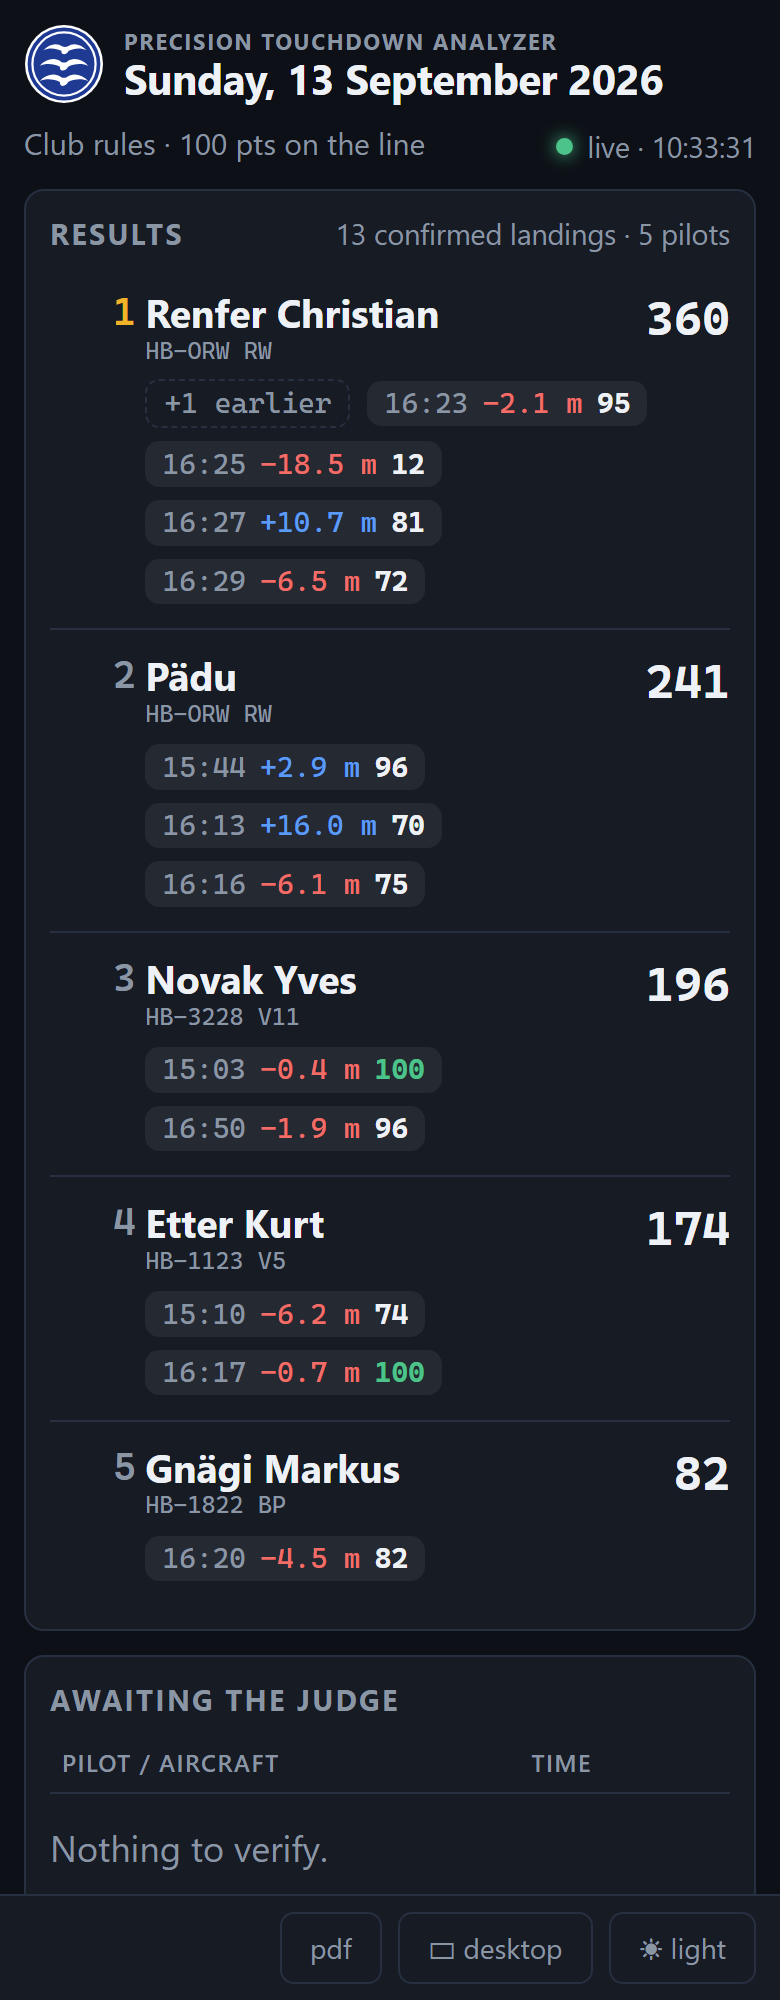
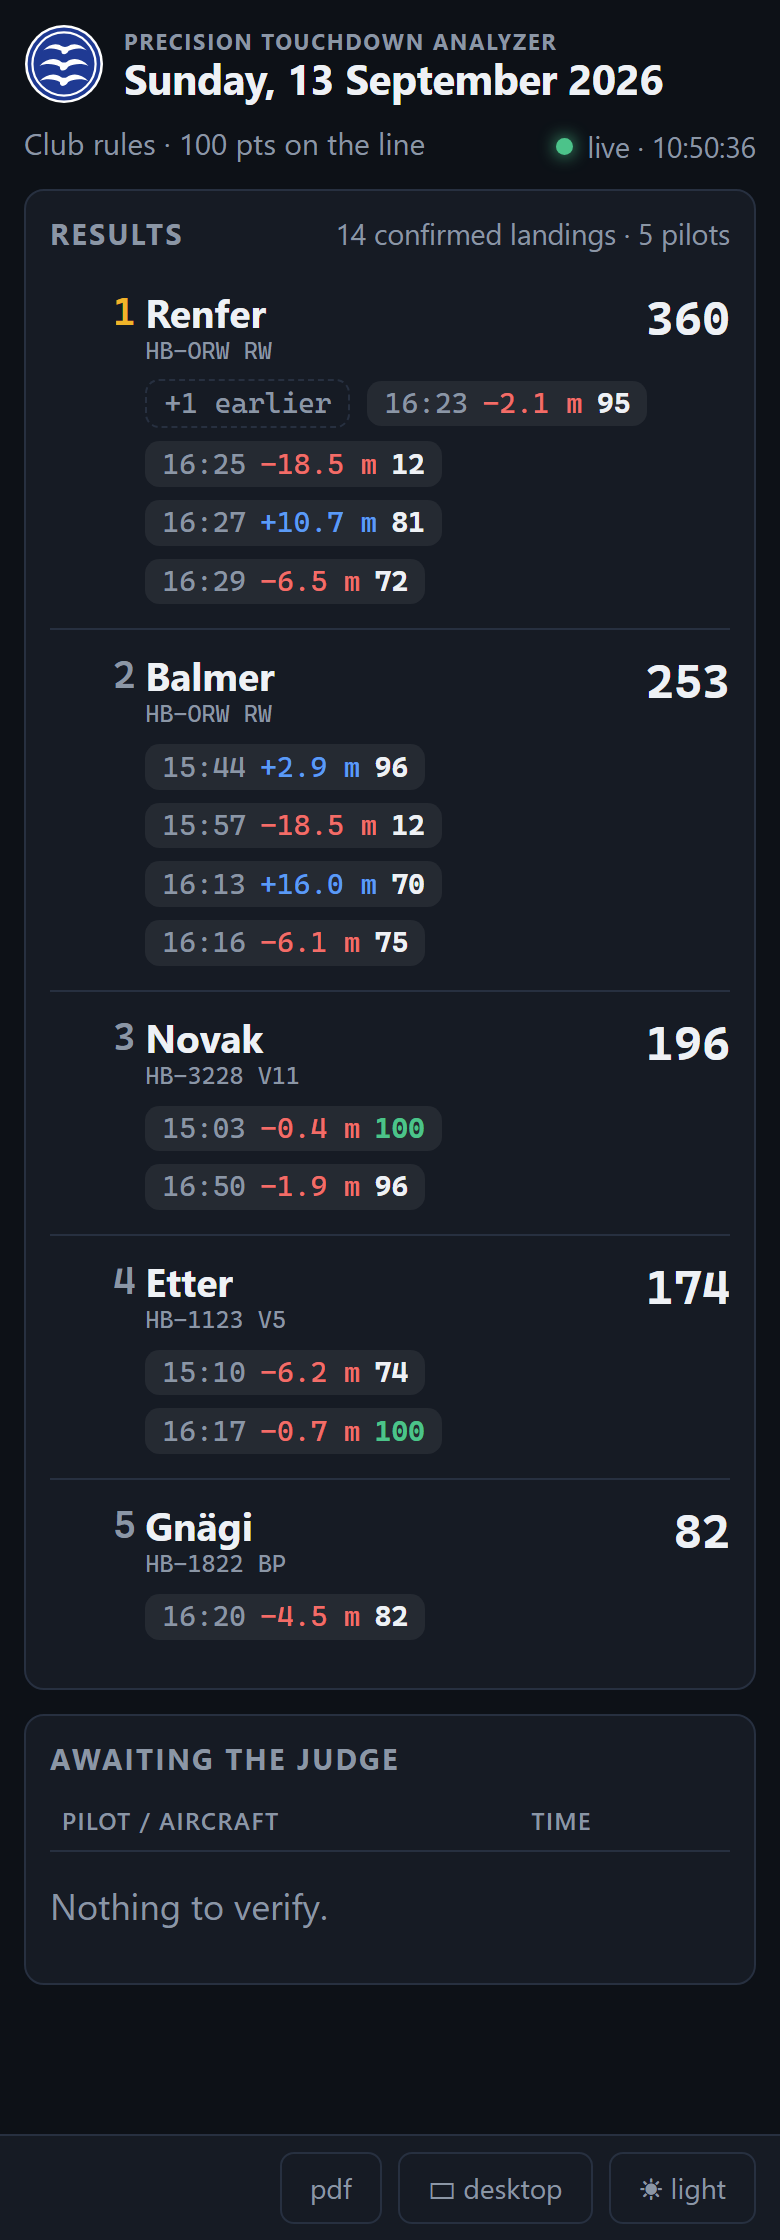
Screenshots fixed.

diff --git a/README.md b/README.md
@@ -11,9 +11,15 @@ aircraft, tracks its wheel to the instant of contact and maps that pixel onto
 the ground plane through a one-time calibration. A judge confirms each landing
 in the browser.
 
-<img width="1427" height="1165" alt="image" src="https://github.com/user-attachments/assets/3756b6af-1bf5-4ca8-941b-10ab724513a6" />
+<p align="center">
+  <img width="1427" height="1165" alt="The judge's Landings page: the contact frame of a glider with the target line and the approach drawn in, the measured offset, lateral distance and ground speed, the OGN identification with registration and pilot to confirm, and the session's events with offset, points and status" src="https://github.com/user-attachments/assets/3756b6af-1bf5-4ca8-941b-10ab724513a6" />
+  <br><em>The judge's Landings page: the contact frame with the geometry drawn in, the measurement, the OGN proposal to confirm, and every event of the session.</em>
+</p>
 
-<img width="1689" height="951" alt="2026-09-14_13h38_17" src="https://github.com/user-attachments/assets/c2719deb-bfd8-4844-a5af-063067819b36" />
+<p align="center">
+  <img width="1688" height="950" alt="The results board for a big screen: pilots ranked by total points, with the number of landings and each landing's time, offset and points, and beside it the landings awaiting the judge" src="docs/images/board.png" />
+  <br><em>The results board for the big screen: pilots ranked by their total, each landing with its offset and points.</em>
+</p>
 
 <p align="center">
   <img width="320" alt="The scoreboard's small display on a phone: pilots ranked by total points, each landing's time, offset and points, and the landings awaiting the judge" src="docs/images/board-mobile.png" />
